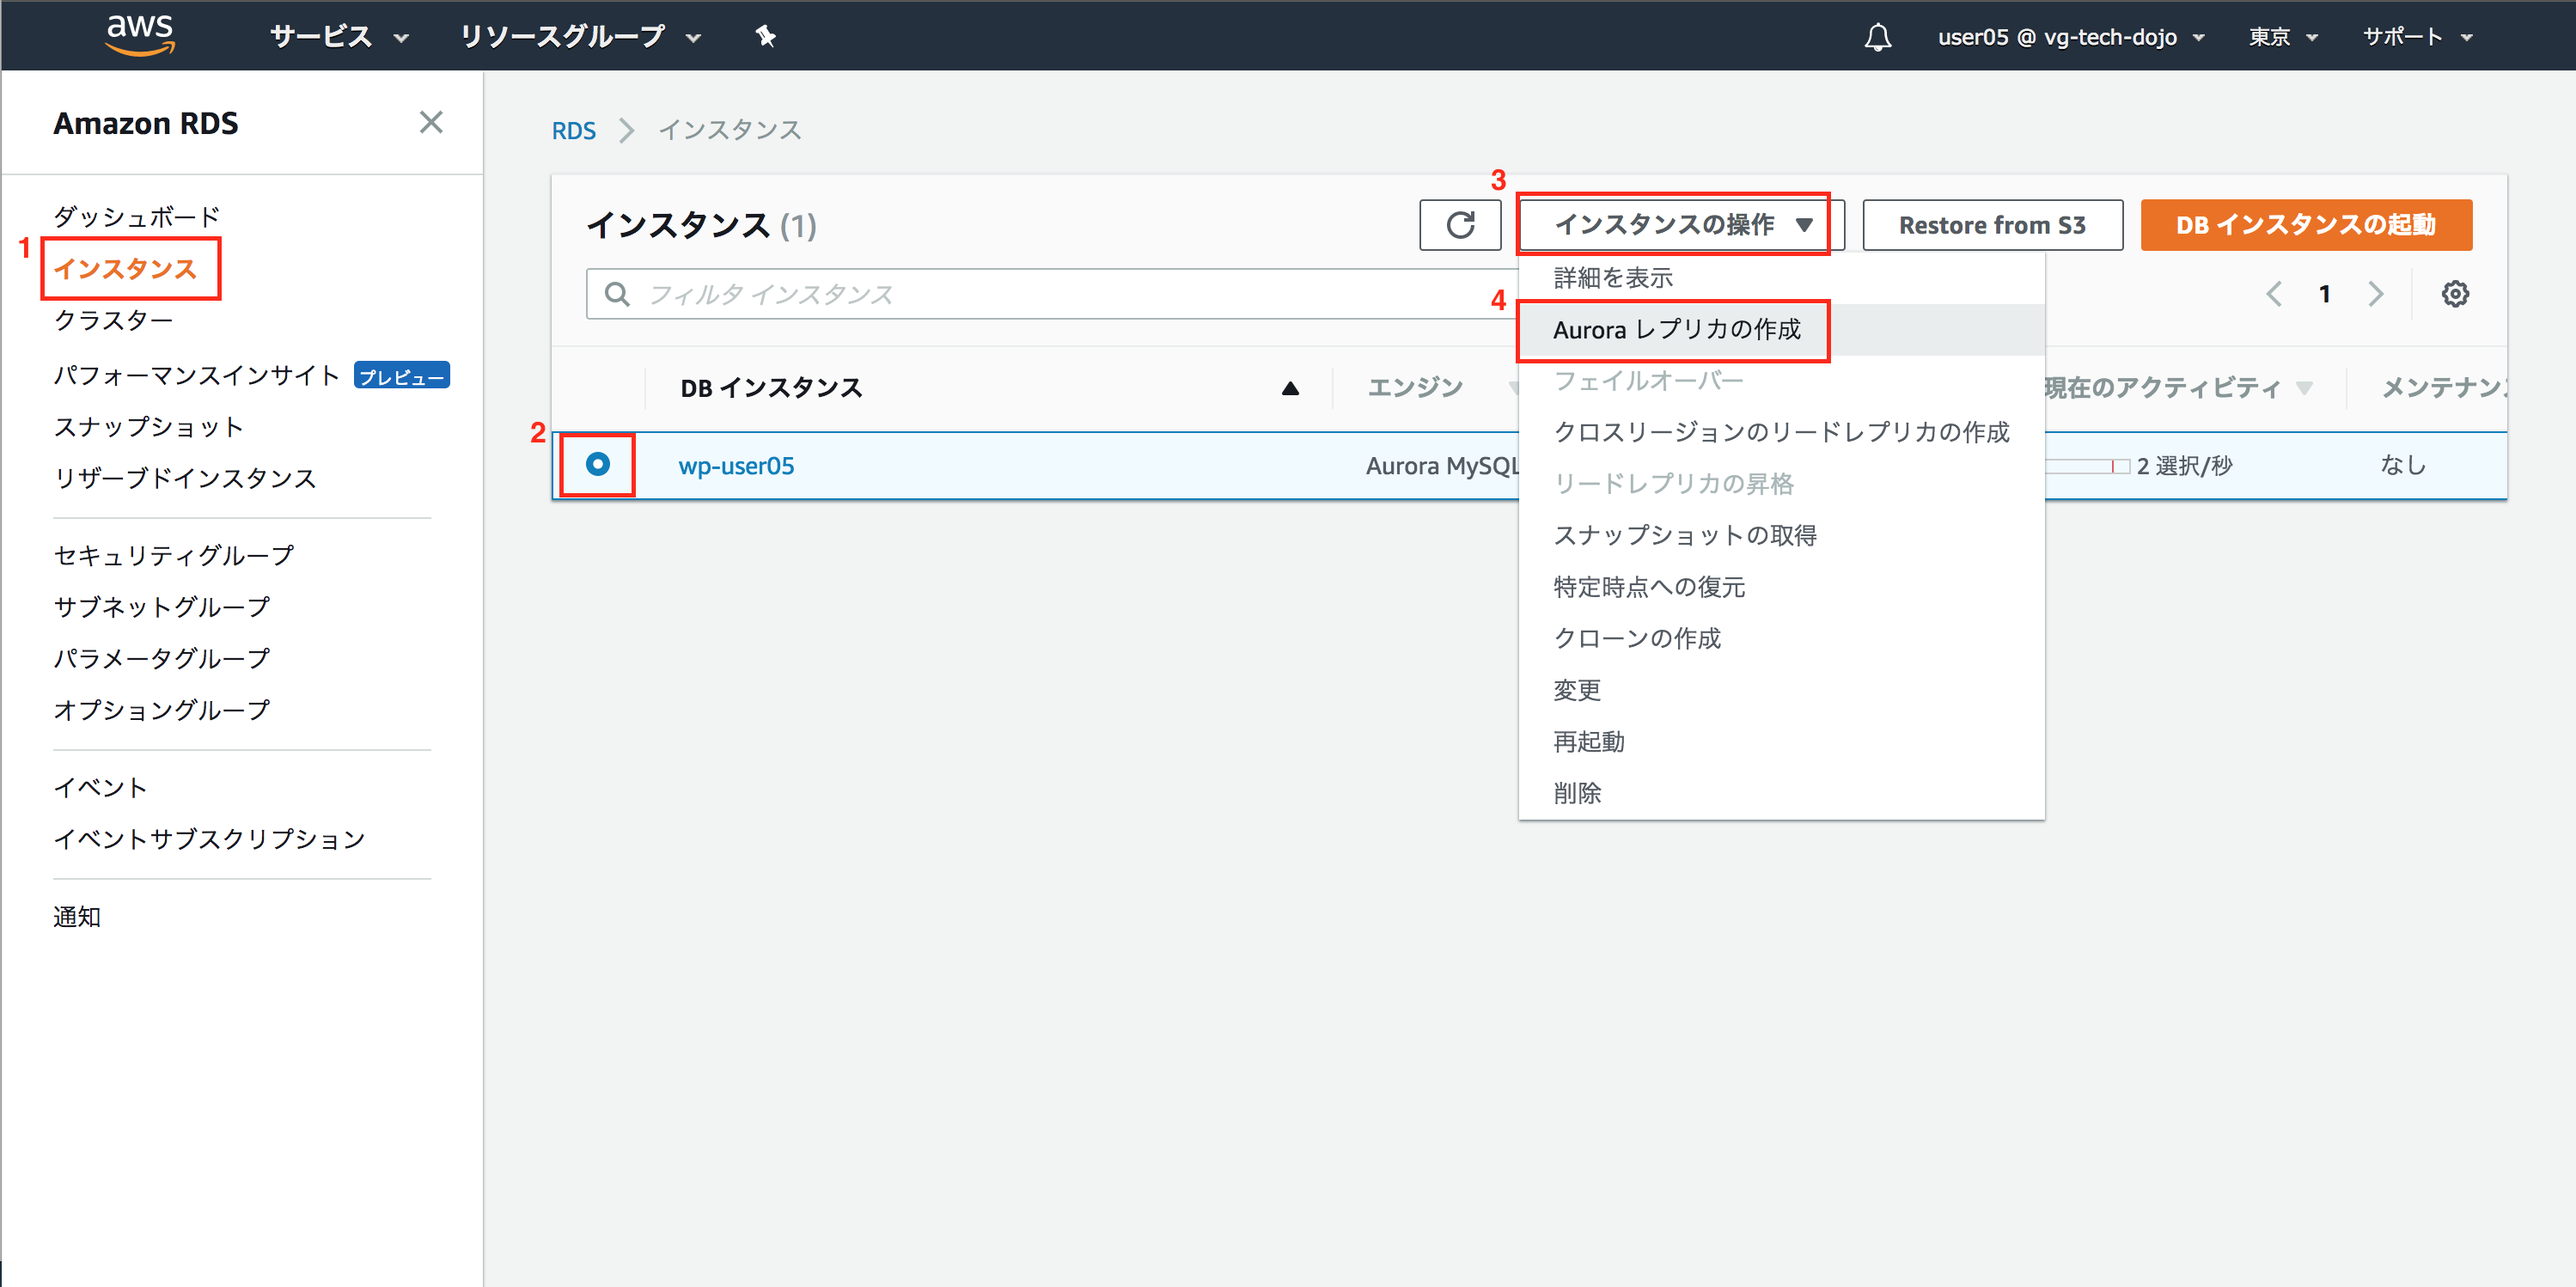
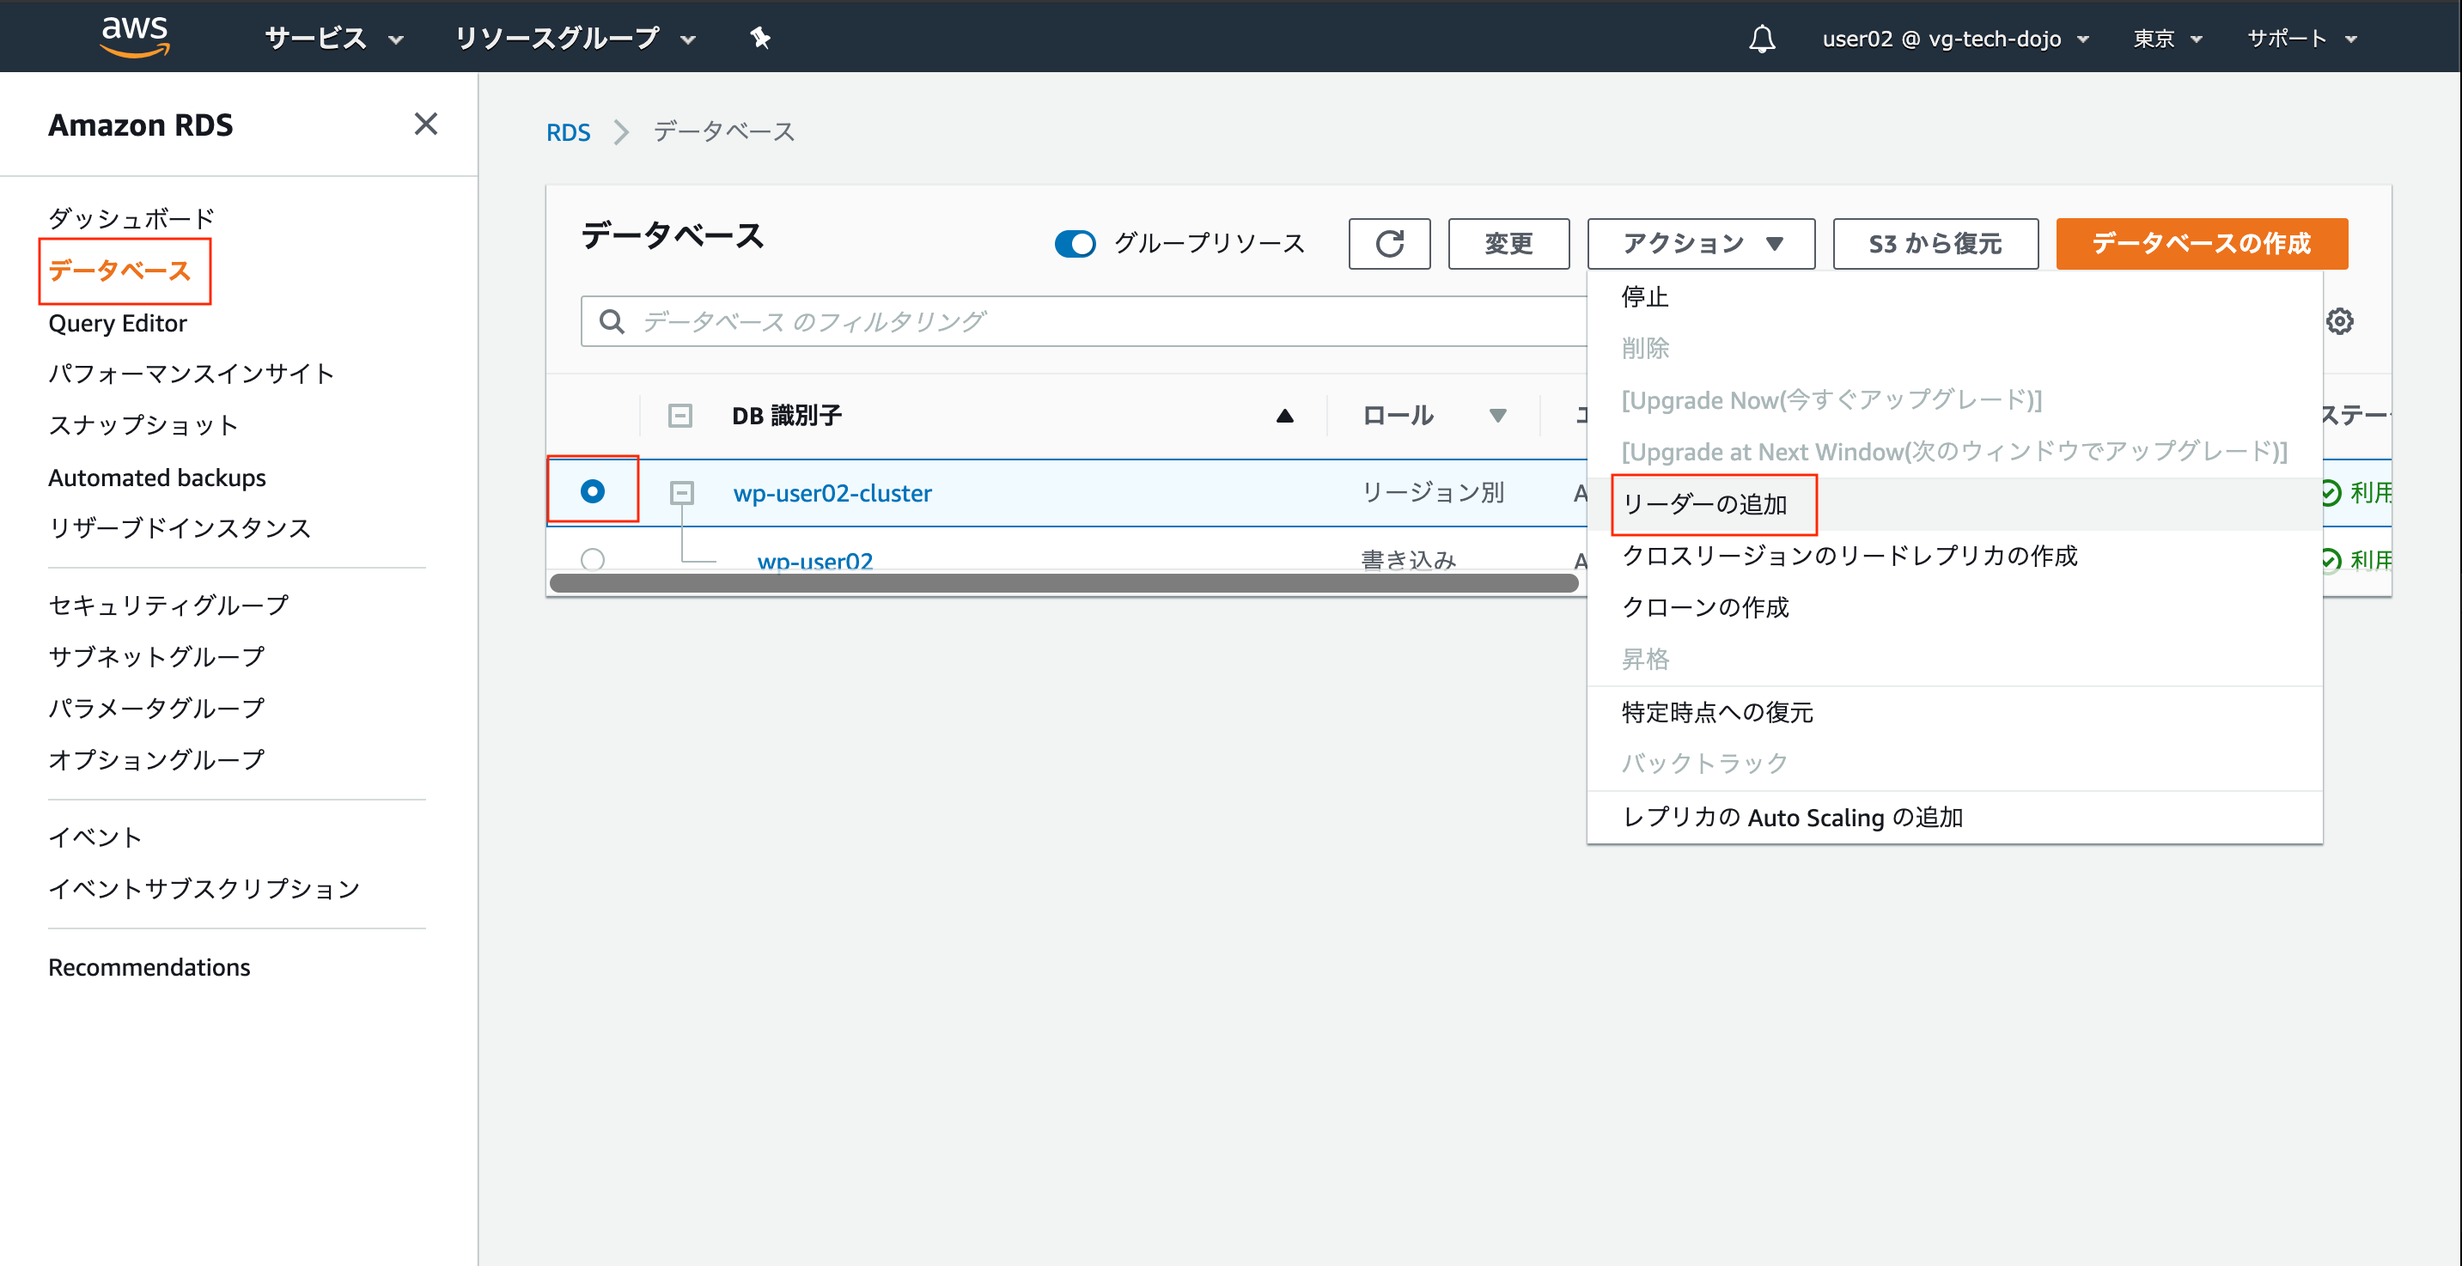
commit

diff --git a/Step-3.md b/Step-3.md
@@ -19,7 +19,7 @@ AWS MultiA-Zについて調べてみましょう(10分)
 ![multiaz-1](./images/step-3/multiaz-1.png "MULTIAZ1")
 
 ----
-**左側のインスンタンスリンクをクリックし、作成したAuroraインスタンス(wp-userXX)をチェックし、インスタンスの操作のプルダウンからAuroraレプリカの作成を選択しましょう**
+**左側のデータベースリンクをクリックしクラスターにチェック、アクションからリーダーの追加を押下**
 
 ![multiaz-2](./images/step-3/multiaz-2.png "MULTIAZ2")
 
